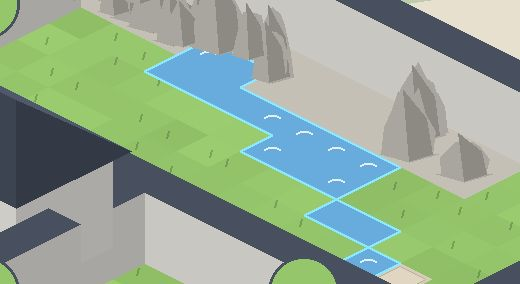
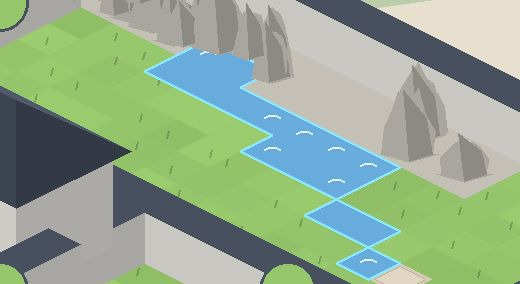
fix(garden): occluders match the current painting again (wall 1.6, two-tile gates); wide gates only in the Codex blockout
Yesterday's taller walls cut sprites behind walls in half on the old painting.
Live geometry is back to what the painting shows; blockout.py --wide draws the
three-tile gates and taller walls only into the reference images for the
repaint. Occluder outlines no longer grow upward and shave 5% off the top so a
sprite peeks over the coping instead of being sliced by ground.

Claude-Session: https://claude.ai/code/session_01CX9A8LkVQKcNnTEsxo35Fv

diff --git a/miniprogram/utils/occlusion.js b/miniprogram/utils/occlusion.js
@@ -5,9 +5,9 @@
 const { GRID, SHELL, GATES, DOOR, tileInfo } = require('./shared/estate')
 const { tileTop } = require('./iso')
 
-const WALL_H = 2.2
-// 月亮门洞：半径（格高），洞底贴地
-const GATE_HOLE = { radius: 1.1 }
+// 墙高（格高）和月亮门洞（圆心离地 = up × 墙高，半径按格高）。和现在这张原画对过（把 pieces 画在切块上看）；Codex 重画后要重新对
+const WALL_H = 1.6
+const GATE_HOLE = { up: 0.55, radius: 0.9 }
 const DOOR_H = WALL_H * 1.3
 // 建筑：h 墙身高、roof 屋顶高、over 屋檐出挑（格）、inset 比格子缩进多少（格）
 const BUILDINGS = {
@@ -19,8 +19,9 @@ const BUILDINGS = {
   trellis: { h: 1.6, inset: 0.1 },
   rockery: { h: 2.2, inset: 0.3 },
 }
-// 抠图比几何稍微宽一点，免得画里的墙边露出一条缝
+// 抠图左右比几何稍微宽一点，免得画里的墙边露出一条缝；上边反而收一点点：宁可让后面的东西从墙头露出一丝，也别用一条地面把它拦腰切断
 const PAD = 0.04
+const TRIM_TOP = 0.05
 
 // 块的 z-index（节点用的值）：物件节点是 (c+r)*10 + c + 10、小动物是 +15；后面一格的东西最多到 +15、前面一格的东西最少 +20，取 +17 夹在中间
 const depthZ = (c, r) => (c + r) * 10 + c + 17
@@ -64,14 +65,13 @@ function prism(c0, r0, c1, r1, h, L, over = 0, roof = 0) {
   return hull(pts)
 }
 
-function pad(poly, px) {
+function pad(poly, px, trim) {
   const cx = poly.reduce((s, p) => s + p[0], 0) / poly.length
   const cy = poly.reduce((s, p) => s + p[1], 0) / poly.length
   return poly.map(([x, y]) => {
     const dx = x - cx
-    const dy = y - cy
-    const d = Math.hypot(dx, dy) || 1
-    return [x + (dx / d) * px, y + (dy / d) * px]
+    const d = Math.abs(dx) || 1
+    return [x + (dx / d) * px, y < cy ? y + trim : y]
   })
 }
 
@@ -124,7 +124,7 @@ function withHole(outer, inner) {
 }
 
 function piece(key, c, r, poly, L, hole) {
-  const padded = pad(poly, L.tileW * PAD)
+  const padded = pad(poly, L.tileW * PAD, L.tileH * TRIM_TOP)
   const box = bboxOf(padded)
   return { key, c, r, z: depthZ(c, r), poly: hole ? withHole(padded, hole) : padded, outer: padded, box, hole: !!hole }
 }
@@ -156,8 +156,7 @@ function pieces(L) {
     const [c0, r0] = g.tiles[0]
     const front = g.tiles.reduce((best, t) => (t[0] + t[1] > best[0] + best[1] ? t : best), g.tiles[0])
     const center = pairCenter(g.tiles, L)
-    const r = GATE_HOLE.radius * L.tileH
-    const hole = circle(center.x, center.y - r, r)
+    const hole = circle(center.x, center.y - WALL_H * GATE_HOLE.up * L.tileH, GATE_HOLE.radius * L.tileH)
     out.push(piece(`g${c0}-${r0}`, front[0], front[1], prism(Math.min(...cs), Math.min(...rs), Math.max(...cs) + 1, Math.max(...rs) + 1, WALL_H, L), L, hole))
   })
   {

diff --git a/cloudfunctions/api/lib/shared/estate.js b/cloudfunctions/api/lib/shared/estate.js
@@ -72,23 +72,23 @@ const SHELL = [
   { area: 'back', kind: 'water', what: 'stream', rect: [26, 8, 27, 9] },
 ]
 
-// 月亮门（三格宽，洞开得大），a、b 是它连着的两个院子
+// 月亮门（两格宽；新原画到了改成三格，见 blockout.py --wide），a、b 是它连着的两个院子
 const GATES = [
-  { a: 'front', b: 'main', tiles: [[13, 18], [14, 18], [15, 18]] },
-  { a: 'front', b: 'orchard', tiles: [[9, 22], [9, 23], [9, 24]] },
-  { a: 'front', b: 'flower', tiles: [[18, 22], [18, 23], [18, 24]] },
-  { a: 'main', b: 'bamboo', tiles: [[9, 13], [9, 14], [9, 15]] },
-  { a: 'main', b: 'pond', tiles: [[18, 13], [18, 14], [18, 15]] },
-  { a: 'bamboo', b: 'orchard', tiles: [[4, 18], [5, 18], [6, 18]] },
-  { a: 'bamboo', b: 'farm', tiles: [[4, 9], [5, 9], [6, 9]] },
-  { a: 'pond', b: 'flower', tiles: [[22, 18], [23, 18], [24, 18]] },
-  { a: 'pond', b: 'tea', tiles: [[27, 13], [27, 14], [27, 15]] },
-  { a: 'pond', b: 'back', tiles: [[22, 9], [23, 9], [24, 9]] },
-  { a: 'flower', b: 'veg', tiles: [[27, 22], [27, 23], [27, 24]] },
-  { a: 'tea', b: 'veg', tiles: [[31, 18], [32, 18], [33, 18]] },
-  { a: 'tea', b: 'spring', tiles: [[31, 9], [32, 9], [33, 9]] },
-  { a: 'back', b: 'farm', tiles: [[9, 4], [9, 5], [9, 6]] },
-  { a: 'back', b: 'spring', tiles: [[27, 4], [27, 5], [27, 6]] },
+  { a: 'front', b: 'main', tiles: [[13, 18], [14, 18]] },
+  { a: 'front', b: 'orchard', tiles: [[9, 22], [9, 23]] },
+  { a: 'front', b: 'flower', tiles: [[18, 22], [18, 23]] },
+  { a: 'main', b: 'bamboo', tiles: [[9, 13], [9, 14]] },
+  { a: 'main', b: 'pond', tiles: [[18, 13], [18, 14]] },
+  { a: 'bamboo', b: 'orchard', tiles: [[4, 18], [5, 18]] },
+  { a: 'bamboo', b: 'farm', tiles: [[4, 9], [5, 9]] },
+  { a: 'pond', b: 'flower', tiles: [[22, 18], [23, 18]] },
+  { a: 'pond', b: 'tea', tiles: [[27, 13], [27, 14]] },
+  { a: 'pond', b: 'back', tiles: [[22, 9], [23, 9]] },
+  { a: 'flower', b: 'veg', tiles: [[27, 22], [27, 23]] },
+  { a: 'tea', b: 'veg', tiles: [[31, 18], [32, 18]] },
+  { a: 'tea', b: 'spring', tiles: [[31, 9], [32, 9]] },
+  { a: 'back', b: 'farm', tiles: [[9, 4], [9, 5]] },
+  { a: 'back', b: 'spring', tiles: [[27, 4], [27, 5]] },
 ]
 // 外墙上的大门：新住户从这里进来
 const DOOR = [[13, 27], [14, 27]]

diff --git a/miniprogram/utils/shared/estate.js b/miniprogram/utils/shared/estate.js
@@ -72,23 +72,23 @@ const SHELL = [
   { area: 'back', kind: 'water', what: 'stream', rect: [26, 8, 27, 9] },
 ]
 
-// 月亮门（三格宽，洞开得大），a、b 是它连着的两个院子
+// 月亮门（两格宽；新原画到了改成三格，见 blockout.py --wide），a、b 是它连着的两个院子
 const GATES = [
-  { a: 'front', b: 'main', tiles: [[13, 18], [14, 18], [15, 18]] },
-  { a: 'front', b: 'orchard', tiles: [[9, 22], [9, 23], [9, 24]] },
-  { a: 'front', b: 'flower', tiles: [[18, 22], [18, 23], [18, 24]] },
-  { a: 'main', b: 'bamboo', tiles: [[9, 13], [9, 14], [9, 15]] },
-  { a: 'main', b: 'pond', tiles: [[18, 13], [18, 14], [18, 15]] },
-  { a: 'bamboo', b: 'orchard', tiles: [[4, 18], [5, 18], [6, 18]] },
-  { a: 'bamboo', b: 'farm', tiles: [[4, 9], [5, 9], [6, 9]] },
-  { a: 'pond', b: 'flower', tiles: [[22, 18], [23, 18], [24, 18]] },
-  { a: 'pond', b: 'tea', tiles: [[27, 13], [27, 14], [27, 15]] },
-  { a: 'pond', b: 'back', tiles: [[22, 9], [23, 9], [24, 9]] },
-  { a: 'flower', b: 'veg', tiles: [[27, 22], [27, 23], [27, 24]] },
-  { a: 'tea', b: 'veg', tiles: [[31, 18], [32, 18], [33, 18]] },
-  { a: 'tea', b: 'spring', tiles: [[31, 9], [32, 9], [33, 9]] },
-  { a: 'back', b: 'farm', tiles: [[9, 4], [9, 5], [9, 6]] },
-  { a: 'back', b: 'spring', tiles: [[27, 4], [27, 5], [27, 6]] },
+  { a: 'front', b: 'main', tiles: [[13, 18], [14, 18]] },
+  { a: 'front', b: 'orchard', tiles: [[9, 22], [9, 23]] },
+  { a: 'front', b: 'flower', tiles: [[18, 22], [18, 23]] },
+  { a: 'main', b: 'bamboo', tiles: [[9, 13], [9, 14]] },
+  { a: 'main', b: 'pond', tiles: [[18, 13], [18, 14]] },
+  { a: 'bamboo', b: 'orchard', tiles: [[4, 18], [5, 18]] },
+  { a: 'bamboo', b: 'farm', tiles: [[4, 9], [5, 9]] },
+  { a: 'pond', b: 'flower', tiles: [[22, 18], [23, 18]] },
+  { a: 'pond', b: 'tea', tiles: [[27, 13], [27, 14]] },
+  { a: 'pond', b: 'back', tiles: [[22, 9], [23, 9]] },
+  { a: 'flower', b: 'veg', tiles: [[27, 22], [27, 23]] },
+  { a: 'tea', b: 'veg', tiles: [[31, 18], [32, 18]] },
+  { a: 'tea', b: 'spring', tiles: [[31, 9], [32, 9]] },
+  { a: 'back', b: 'farm', tiles: [[9, 4], [9, 5]] },
+  { a: 'back', b: 'spring', tiles: [[27, 4], [27, 5]] },
 ]
 // 外墙上的大门：新住户从这里进来
 const DOOR = [[13, 27], [14, 27]]

diff --git a/scripts/estate/blockout.py b/scripts/estate/blockout.py
@@ -1,6 +1,7 @@
 """园林大宅院的白模：按 shared/estate.js 的布局画整张底图，切成 4×4 块给小程序当占位底图；整图另存给即梦当参考
 
-    python3 scripts/estate/blockout.py
+    python3 scripts/estate/blockout.py          # 按线上数据画：兜底切块 + art/guide 参考图
+    python3 scripts/estate/blockout.py --wide   # 只画 art/guide 参考图，月亮门三格宽、墙更高（给 Codex 重画用；新画到了再把数据切过去）
 
 输出：miniprogram/images/garden/estate/t00.jpg … t33.jpg（底图切块）、
      art/guide/estate-blockout.jpg（整图）、art/guide/estate-blockout-3x2.jpg（上下补成 3:2，给 Codex 当重绘底稿）、
@@ -12,6 +13,7 @@ import math
 import os
 import random
 import subprocess
+import sys
 
 from PIL import Image, ImageDraw, ImageFont
 
@@ -33,8 +35,9 @@ COLORS = {
 }
 WALL = (240, 238, 232)
 WALL_TOP = (72, 80, 96)
-WALL_H = TH * 2.2
-GATE_R = TH * 1.1  # 月亮门洞半径（洞底贴地：圆心高 = 半径）
+WIDE = '--wide' in sys.argv
+WALL_H = TH * (2.2 if WIDE else 1.6)
+GATE_R = TH * (1.1 if WIDE else 0.9)  # 月亮门洞半径（洞底贴地：圆心高 = 半径）
 WOOD = (150, 104, 64)
 
 
@@ -50,6 +53,12 @@ def load_layout():
 LAYOUT = load_layout()
 COLS, ROWS = LAYOUT['grid']['cols'], LAYOUT['grid']['rows']
 KINDS = LAYOUT['kinds']
+if WIDE:
+    for g in LAYOUT['gates']:
+        (c0, r0), (c1, r1) = g['tiles']
+        third = [max(c0, c1) + 1, r0] if r0 == r1 else [c0, max(r0, r1) + 1]
+        g['tiles'].append(third)
+        KINDS[third[1]][third[0]] = 'gate'
 TOP = TW * 1.3
 DEPTH = TH * 0.4
 W = int((COLS + ROWS) * TW / 2)
@@ -326,16 +335,17 @@ def main():
     img = draw_estate()
     tw, th = W / SPLIT, H / SPLIT
     total = 0
-    for row in range(SPLIT):
-        for col in range(SPLIT):
-            tile = img.crop((round(col * tw), round(row * th), round((col + 1) * tw), round((row + 1) * th)))
-            path = os.path.join(OUT, 'estate', f't{row}{col}.jpg')
-            tile.save(path, quality=JPEG_QUALITY, optimize=True)
-            total += os.path.getsize(path)
+    if not WIDE:
+        for row in range(SPLIT):
+            for col in range(SPLIT):
+                tile = img.crop((round(col * tw), round(row * th), round((col + 1) * tw), round((row + 1) * th)))
+                path = os.path.join(OUT, 'estate', f't{row}{col}.jpg')
+                tile.save(path, quality=JPEG_QUALITY, optimize=True)
+                total += os.path.getsize(path)
     img.save(os.path.join(GUIDE, 'estate-blockout.jpg'), quality=88, optimize=True)
     pad32(img).save(os.path.join(GUIDE, 'estate-blockout-3x2.jpg'), quality=88, optimize=True)
     draw_labels(img).save(os.path.join(GUIDE, 'estate-blockout-labels.jpg'), quality=88, optimize=True)
-    print(f'底图 {W}×{H}，16 块共 {total // 1024} KB；整图、3:2 底稿和标注图已写入')
+    print(f'底图 {W}×{H}' + ('（--wide：只写参考图）' if WIDE else f'，16 块共 {total // 1024} KB') + '；整图、3:2 底稿和标注图已写入')
 
 
 if __name__ == '__main__':
